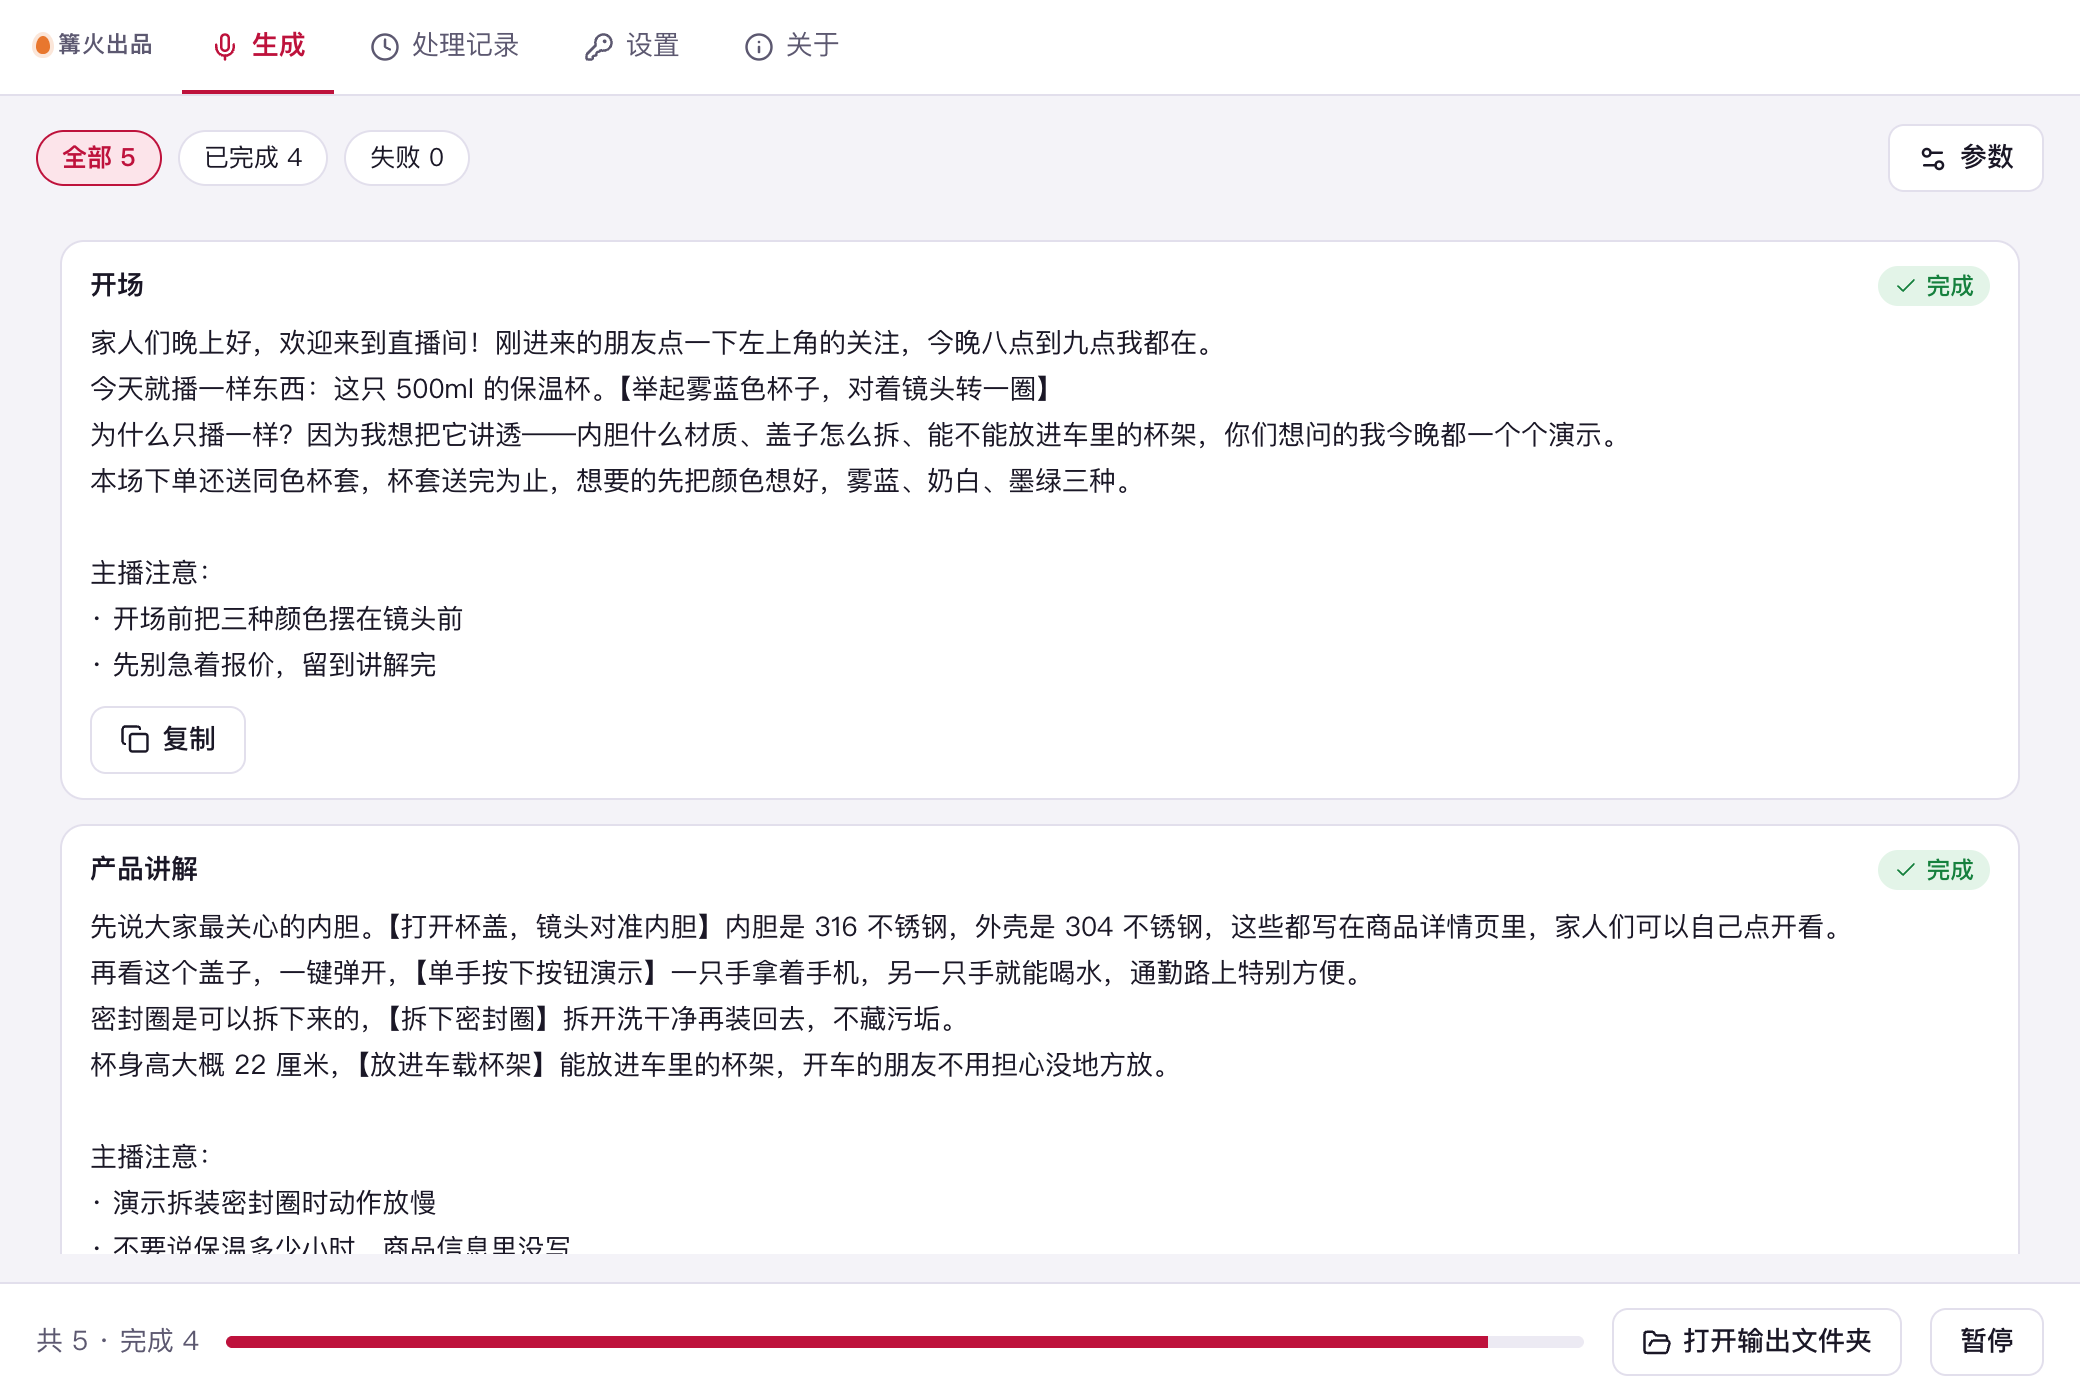
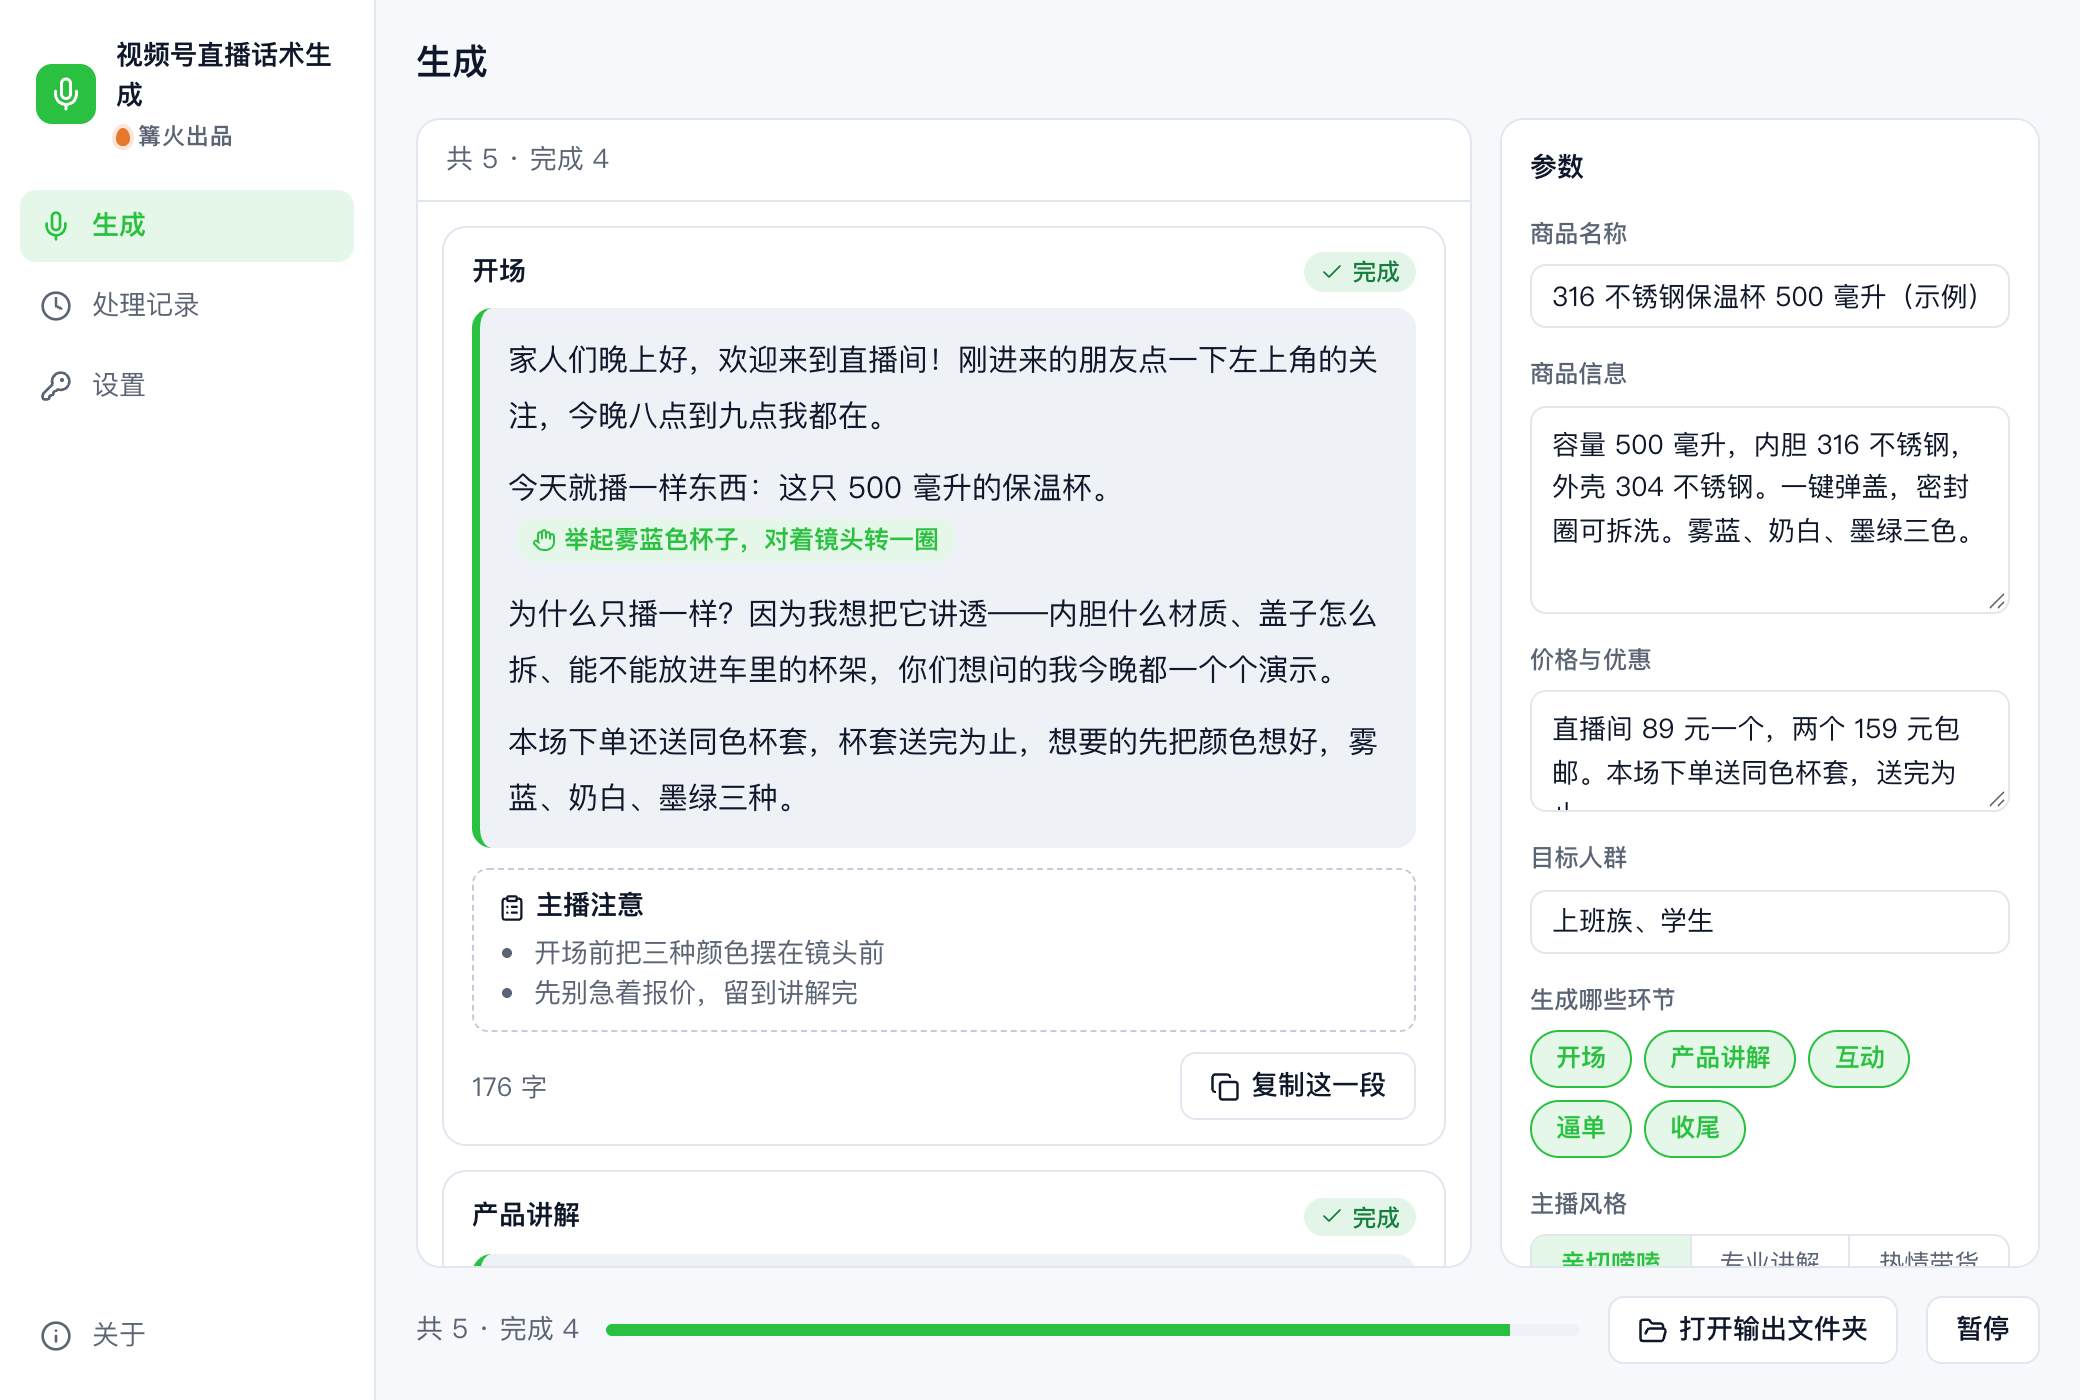
打磨 w19：提词器式话术展示与空状态，全中文，升 0.2.0

diff --git a/src/tool/Views.tsx b/src/tool/Views.tsx
@@ -1,0 +1,80 @@
+// 直播话术的空状态和单段结果展示：提词器式排版，动作提示做成标签，合规问题用高亮标出
+import { Fragment, type ReactNode } from 'react';
+import { AlertTriangle, ArrowRight, ClipboardList, Hand, Mic } from 'lucide-react';
+import type { InputItem, ItemResult } from '../kit/types';
+import { CopyButton } from '../kit/parts';
+import { STAGES } from './core';
+import './tool.css';
+
+const TIPS_MARK = '\n\n主播注意：';
+const WARN_MARK = '\n\n⚠ 合规提醒：';
+
+/** 把 formatScript 生成的文本拆成口播、主播注意、合规提醒三块 */
+export function splitScript(text: string): { script: string; tips: string[]; warn: string; words: string[] } {
+  let body = text;
+  let warn = '';
+  const w = body.indexOf(WARN_MARK);
+  if (w >= 0) { warn = body.slice(w + WARN_MARK.length).trim(); body = body.slice(0, w); }
+  let tips: string[] = [];
+  const t = body.indexOf(TIPS_MARK);
+  if (t >= 0) { tips = body.slice(t + TIPS_MARK.length).split('\n').map((l) => l.replace(/^·\s*/, '').trim()).filter(Boolean); body = body.slice(0, t); }
+  const words = [...warn.matchAll(/：([^；。]+)/g)].flatMap((m) => m[1].split('、').map((x) => x.trim()).filter(Boolean));
+  return { script: body.trim(), tips, warn, words };
+}
+
+const esc = (s: string) => s.replace(/[.*+?^${}()|[\]\\]/g, '\\$&');
+
+function Marked({ text, words }: { text: string; words: string[] }): ReactNode {
+  if (!words.length) return text;
+  const re = new RegExp(`(${words.map(esc).join('|')})`, 'g');
+  return text.split(re).map((p, i) => (words.includes(p) ? <mark key={i} className="ls-mark">{p}</mark> : <Fragment key={i}>{p}</Fragment>));
+}
+
+export function ScriptBody({ result }: { item: InputItem; result: ItemResult }) {
+  const { script, tips, warn, words } = splitScript(result.text ?? '');
+  const lines = script.split('\n').filter((l) => l.trim());
+  return (
+    <div className="ls-card">
+      <div className="ls-script">
+        {lines.map((line, i) => (
+          <p key={i}>
+            {line.split(/(【[^】]*】)/).map((seg, j) => (/^【[^】]*】$/.test(seg)
+              ? <span key={j} className="ls-cue"><Hand size={12} />{seg.slice(1, -1)}</span>
+              : <Marked key={j} text={seg} words={words} />))}
+          </p>
+        ))}
+      </div>
+      {tips.length > 0 && (
+        <aside className="ls-tips" aria-label="主播注意">
+          <b><ClipboardList size={14} />主播注意</b>
+          <ul>{tips.map((t, i) => <li key={i}>{t}</li>)}</ul>
+        </aside>
+      )}
+      {warn && <div className="ls-warn" role="alert"><AlertTriangle size={15} /><span>{warn}</span></div>}
+      <div className="ls-foot">
+        <span className="ls-count k-num">{[...script.replace(/\s+/g, '')].length} 字</span>
+        <CopyButton text={result.copyText ?? result.text ?? ''} label="复制这一段" />
+      </div>
+    </div>
+  );
+}
+
+export function ScriptEmpty() {
+  return (
+    <div className="ls-empty">
+      <div className="ls-flow" aria-hidden="true">
+        <div className="ls-doc"><b>商品信息</b><i /><i /><i className="s" /><em>价格与优惠</em></div>
+        <ArrowRight size={20} />
+        <div className="ls-stages">
+          {STAGES.map((s, k) => <span key={s.id} className="ls-stage"><b>{k + 1}</b>{s.label}</span>)}
+        </div>
+      </div>
+      <h2><Mic size={18} />把商品信息，变成整场直播的口播稿</h2>
+      <p>在右边填好商品和价格，点「生成话术」。每个环节一段，主播的动作提示单独标出，价格和商品信息之外的内容不会编造。</p>
+      <ul>
+        <li>自动标出极限词、医疗功效用语和商品信息里没有的金额</li>
+        <li>每个环节可以多写几版挑着用，最后导出整场直播稿</li>
+      </ul>
+    </div>
+  );
+}

diff --git a/src/tool/tool.css b/src/tool/tool.css
@@ -1,0 +1,26 @@
+/* 视频号直播话术：提词器式排版，类名以 ls- 开头，只用 kit.css 的变量 */
+.ls-card { display: grid; gap: 10px; }
+.ls-script { display: grid; gap: 8px; padding: 12px 14px; border-radius: 10px; background: var(--chip); border-left: 4px solid var(--primary); font-size: 15px; line-height: 1.85; }
+.ls-script p { margin: 0; }
+.ls-cue { display: inline-flex; align-items: center; gap: 4px; margin: 0 4px; padding: 0 8px; min-height: 22px; border-radius: 999px; background: var(--primary-soft); color: var(--primary); font-size: 12.5px; font-weight: 600; line-height: 1.6; vertical-align: 1px; }
+.ls-mark { background: var(--err-soft); color: var(--err); font-weight: 700; border-radius: 3px; padding: 0 2px; text-decoration: underline wavy; text-underline-offset: 3px; }
+.ls-tips { padding: 8px 12px; border: 1px dashed var(--line-strong); border-radius: 8px; font-size: 13.5px; }
+.ls-tips b { display: inline-flex; align-items: center; gap: 5px; margin-bottom: 2px; }
+.ls-tips ul { margin: 0; padding-left: 18px; color: var(--muted); }
+.ls-warn { display: flex; align-items: flex-start; gap: 8px; padding: 8px 12px; border-radius: 8px; background: var(--err-soft); color: var(--err); font-size: 13.5px; font-weight: 500; }
+.ls-warn svg { flex: none; margin-top: 3px; }
+.ls-foot { display: flex; align-items: center; justify-content: space-between; gap: 10px; }
+.ls-count { color: var(--muted); font-size: 13px; }
+.ls-empty { display: grid; gap: 10px; justify-items: start; max-width: 560px; margin: 0 auto; padding: 28px 12px; }
+.ls-empty h2 { margin: 6px 0 0; display: flex; align-items: center; gap: 8px; font-size: 18px; }
+.ls-empty p, .ls-empty li { margin: 0; color: var(--muted); font-size: 14px; line-height: 1.7; }
+.ls-empty ul { margin: 0; padding-left: 18px; }
+.ls-flow { display: flex; align-items: center; gap: 12px; color: var(--muted); flex-wrap: wrap; }
+.ls-doc { width: 120px; padding: 10px 12px; border: 1px solid var(--line-strong); border-radius: 8px; background: var(--surface); display: grid; gap: 6px; font-size: 13px; color: var(--ink); }
+.ls-doc i { height: 5px; border-radius: 3px; background: var(--line-strong); }
+.ls-doc i.s { width: 60%; }
+.ls-doc em { font-style: normal; color: var(--primary); font-weight: 600; font-size: 12.5px; }
+.ls-stages { display: flex; align-items: center; gap: 6px; flex-wrap: wrap; }
+.ls-stage { display: inline-flex; align-items: center; gap: 6px; height: 32px; padding: 0 12px 0 6px; border-radius: 999px; background: var(--primary-soft); color: var(--primary); font-weight: 600; font-size: 13px; }
+.ls-stage b { width: 20px; height: 20px; border-radius: 50%; display: grid; place-items: center; background: var(--primary); color: var(--on-primary); font-size: 12px; }
+html[data-mode="light"] .ls-stage b { color: #fff; }

diff --git a/src/tool/preview.ts b/src/tool/preview.ts
@@ -6,7 +6,7 @@ const words = (t: string) => `${[...t.split('\n\n')[0].replace(/\s+/g, '')].leng
 
 const pieces: [string, string, string][] = [
   ['开场', '未发现极限词', `家人们晚上好，欢迎来到直播间！刚进来的朋友点一下左上角的关注，今晚八点到九点我都在。
-今天就播一样东西：这只 500ml 的保温杯。【举起雾蓝色杯子，对着镜头转一圈】
+今天就播一样东西：这只 500 毫升的保温杯。【举起雾蓝色杯子，对着镜头转一圈】
 为什么只播一样？因为我想把它讲透——内胆什么材质、盖子怎么拆、能不能放进车里的杯架，你们想问的我今晚都一个个演示。
 本场下单还送同色杯套，杯套送完为止，想要的先把颜色想好，雾蓝、奶白、墨绿三种。
 
@@ -51,8 +51,8 @@ export const rows = (state: string): Row[] => {
 };
 
 export const params = {
-  name: '316 不锈钢保温杯 500ml（示例）',
-  info: '容量 500ml，内胆 316 不锈钢，外壳 304 不锈钢。一键弹盖，密封圈可拆洗。雾蓝、奶白、墨绿三色。',
+  name: '316 不锈钢保温杯 500 毫升（示例）',
+  info: '容量 500 毫升，内胆 316 不锈钢，外壳 304 不锈钢。一键弹盖，密封圈可拆洗。雾蓝、奶白、墨绿三色。',
   price: '直播间 89 元一个，两个 159 元包邮。本场下单送同色杯套，送完为止。',
   audience: '上班族、学生',
 };

diff --git a/src/tool/index.ts b/src/tool/index.ts
@@ -7,6 +7,7 @@ import {
   type Generated, type Piece, type Product,
 } from './core';
 import { writeXlsx } from './xlsx';
+import { ScriptBody, ScriptEmpty } from './Views';
 
 const versionsOf = (p: Params) => clampInt(p.versions, 1, 3, 1);
 
@@ -45,8 +46,10 @@ const tool: GenerateTool = {
   needsLLM: true,
   concurrency: 2,
   generateLabel: '生成话术',
+  Empty: ScriptEmpty,
+  ResultBody: ScriptBody,
   params: [
-    { key: 'name', label: '商品名称', type: 'text', default: '', placeholder: '例如：316 不锈钢保温杯 500ml' },
+    { key: 'name', label: '商品名称', type: 'text', default: '', placeholder: '例如：316 不锈钢保温杯 500 毫升' },
     { key: 'info', label: '商品信息', type: 'textarea', rows: 4, default: '', placeholder: '规格、材质、卖点、适合谁、怎么用。只写真实信息，AI 不会补充你没写的功效和参数' },
     { key: 'price', label: '价格与优惠', type: 'textarea', rows: 2, default: '', placeholder: '例如：直播间 89 元，两个包邮，前 100 单送杯套。不写就不会提具体价格' },
     { key: 'audience', label: '目标人群', type: 'text', default: '', placeholder: '可选，例如：上班族、宝妈、学生' },

diff --git a/CHANGELOG.md b/CHANGELOG.md
@@ -1,5 +1,12 @@
 # 更新记录
 
+## 0.2.0
+
+- 每段话术改为提词器式排版：口播正文突出显示，「举起杯子」这类动作提示做成标签，主播注意事项单独成块，极限词、医疗用语和商品信息里没有的金额在正文里标红，每段附字数和「复制这一段」。
+- 新增空状态：用「商品信息 → 五个环节」的示意图说明工具做什么。
+- 界面和上架文案全部改为中文，示例里的单位写成中文；采用专属主色，布局改为侧栏加参数面板。
+- 生成逻辑、合规检查和导出格式不变。
+
 ## 0.1.0
 
 - 首个版本。
